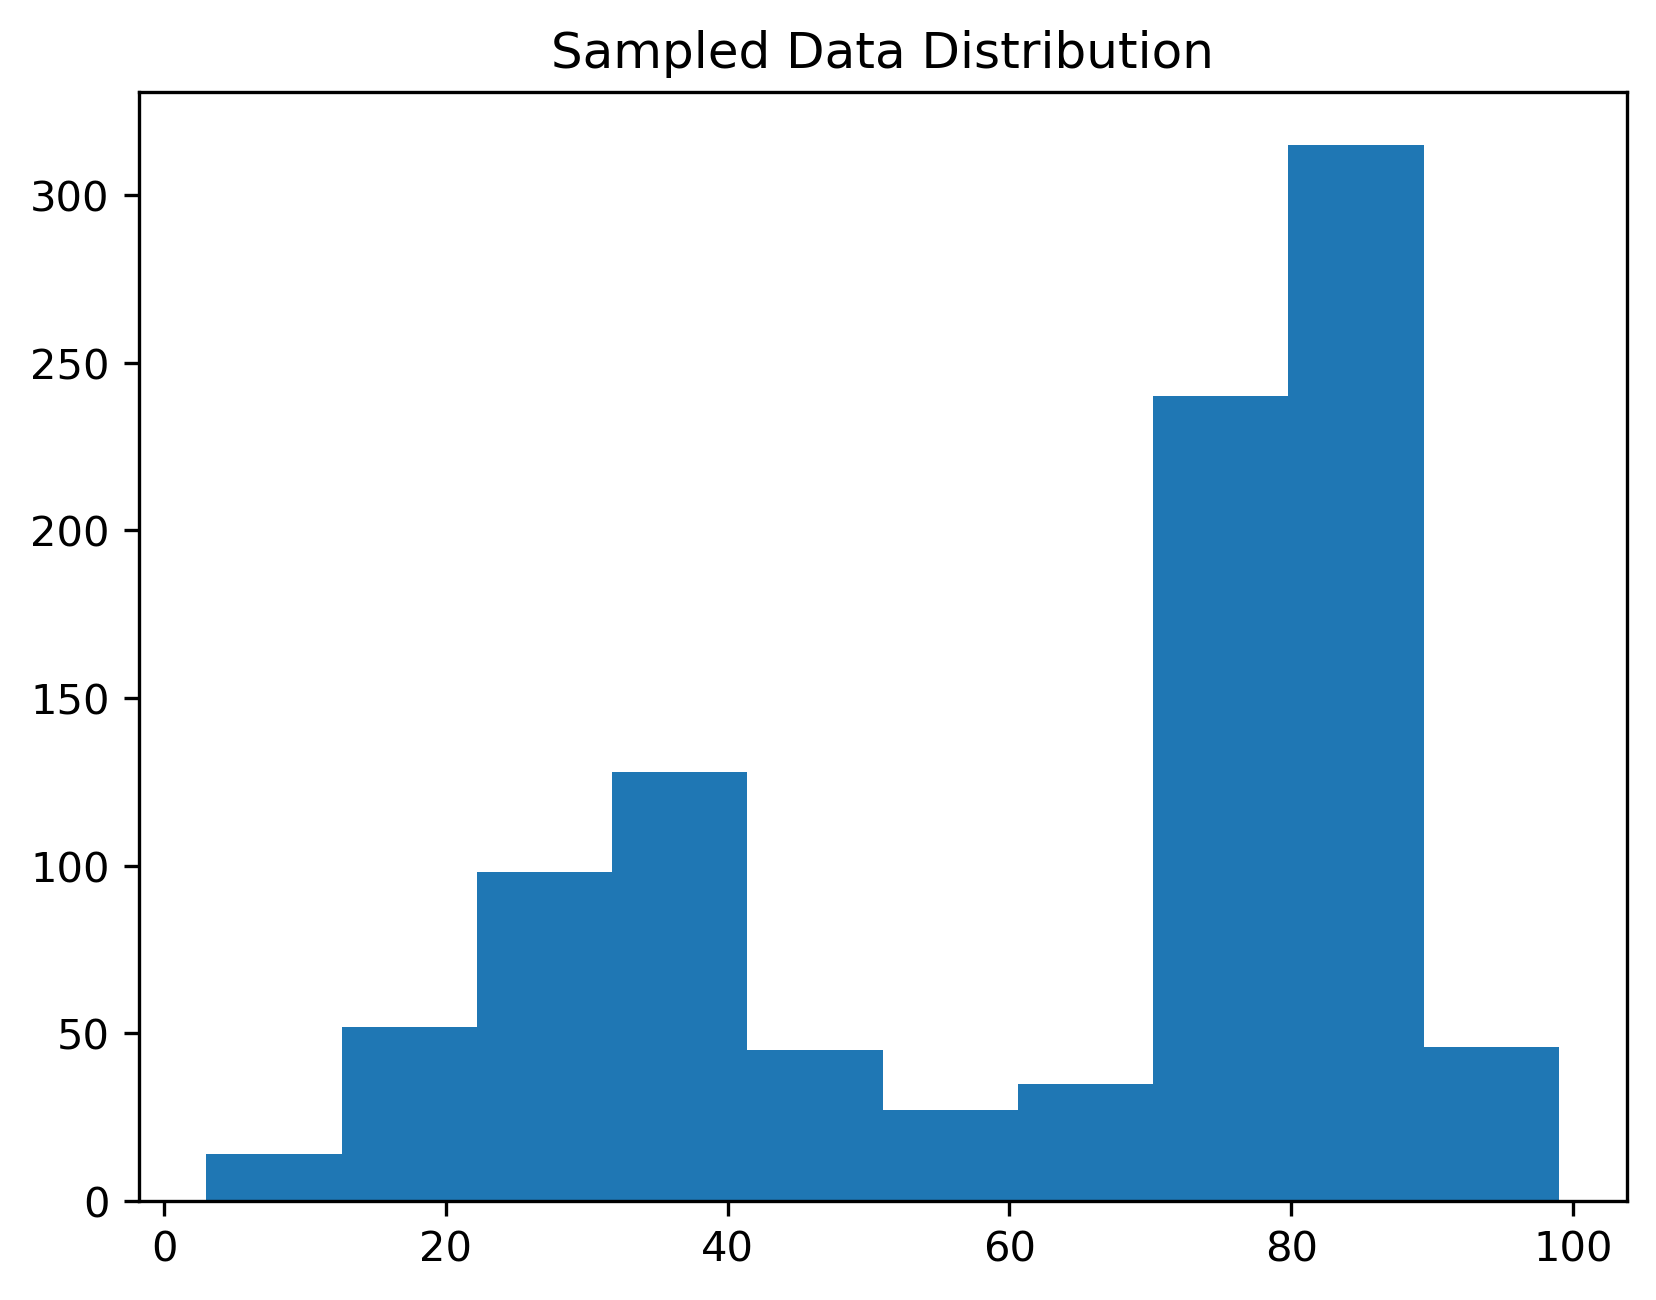
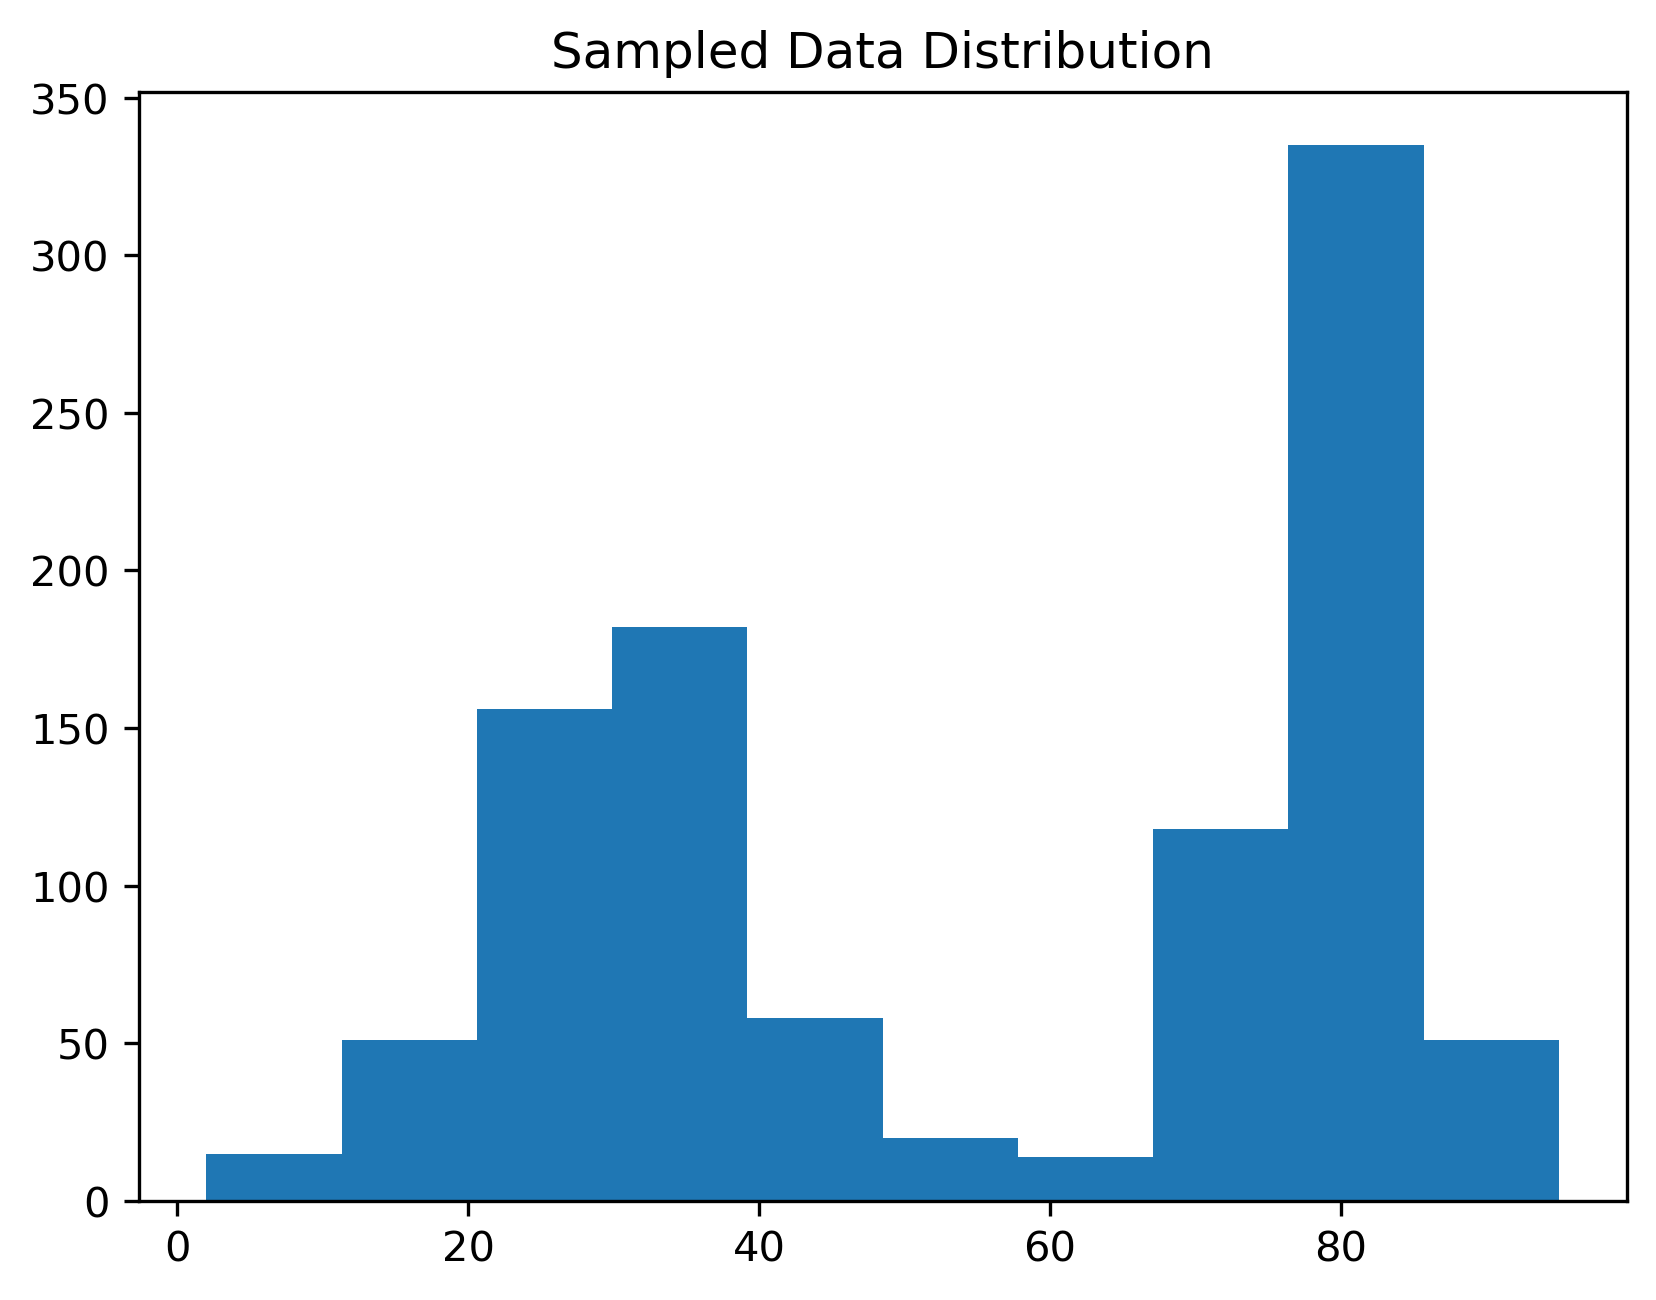
Update the model to actually reflect the equation

diff --git a/unsupervised_learning/cs295_148_deep_unsupervised_learning/HW1/warmup/warmup.py b/unsupervised_learning/cs295_148_deep_unsupervised_learning/HW1/warmup/warmup.py
@@ -47,7 +47,7 @@ def draw_samples(model: nn.Module, num_samples: int) -> List[int]:
 
     samples: List[int] = []
     for _ in range(num_samples):
-        input = torch.tensor(np.random.randint(1, 100))
+        input = torch.tensor(np.random.randint(1, 100)).unsqueeze(-1)
         samples.append(Categorical(F.softmax(model(input))).sample())
 
     return samples
@@ -60,13 +60,13 @@ class Model(nn.Module):
         self.theta = nn.Parameter(torch.zeros(1, 100))
 
     def forward(self, x: torch.Tensor) -> torch.Tensor:
-        return x * self.theta
+        return torch.ones(x.shape[0], 1) * self.theta
 
 
 def train_model(num_epochs: int = 100, early_stopping: int = 5):
 
     model = Model()
-    data = np.expand_dims(sample_data(), -1)
+    data = sample_data()
 
     train_data = torch.from_numpy(data[:int(len(data) * 0.64)])
     val_data = torch.from_numpy(data[int(len(data) * 0.64):int(len(data) * 0.8)])
@@ -92,7 +92,7 @@ def train_model(num_epochs: int = 100, early_stopping: int = 5):
         for x_batch, in train_loader:
             optimizer.zero_grad()
 
-            loss = loss_function(model(x_batch), x_batch.squeeze(1)).mean()
+            loss = loss_function(model(x_batch), x_batch).mean()
 
             loss.backward()
             optimizer.step()
@@ -100,7 +100,7 @@ def train_model(num_epochs: int = 100, early_stopping: int = 5):
             train_loss.append(loss.item())
 
         with torch.no_grad():
-            val_loss = loss_function(model(val_data), val_data.squeeze(1)).mean()
+            val_loss = loss_function(model(val_data), val_data).mean()
 
             epoch_val_loss.append(val_loss.item())
 
@@ -119,7 +119,7 @@ def train_model(num_epochs: int = 100, early_stopping: int = 5):
 
     plot_loss(train_loss, epoch_val_loss, len(train_loader))
 
-    print(f"Test loss: {loss_function(model(test_data), test_data.squeeze(1)).mean()}")
+    print(f"Test loss: {loss_function(model(test_data), test_data).mean()}")
 
     with torch.no_grad():
         x = np.arange(1, 100)
@@ -129,7 +129,7 @@ def train_model(num_epochs: int = 100, early_stopping: int = 5):
         plot_probabilities(x, np.asarray(relevant_probabilities))
 
     plt.clf()
-    plt.hist(data.squeeze(1))
+    plt.hist(data)
     plt.title("Original Data Distribution")
     plt.savefig("diagrams/original_data_distribution.png", dpi=300, bbox_inches="tight")
 
